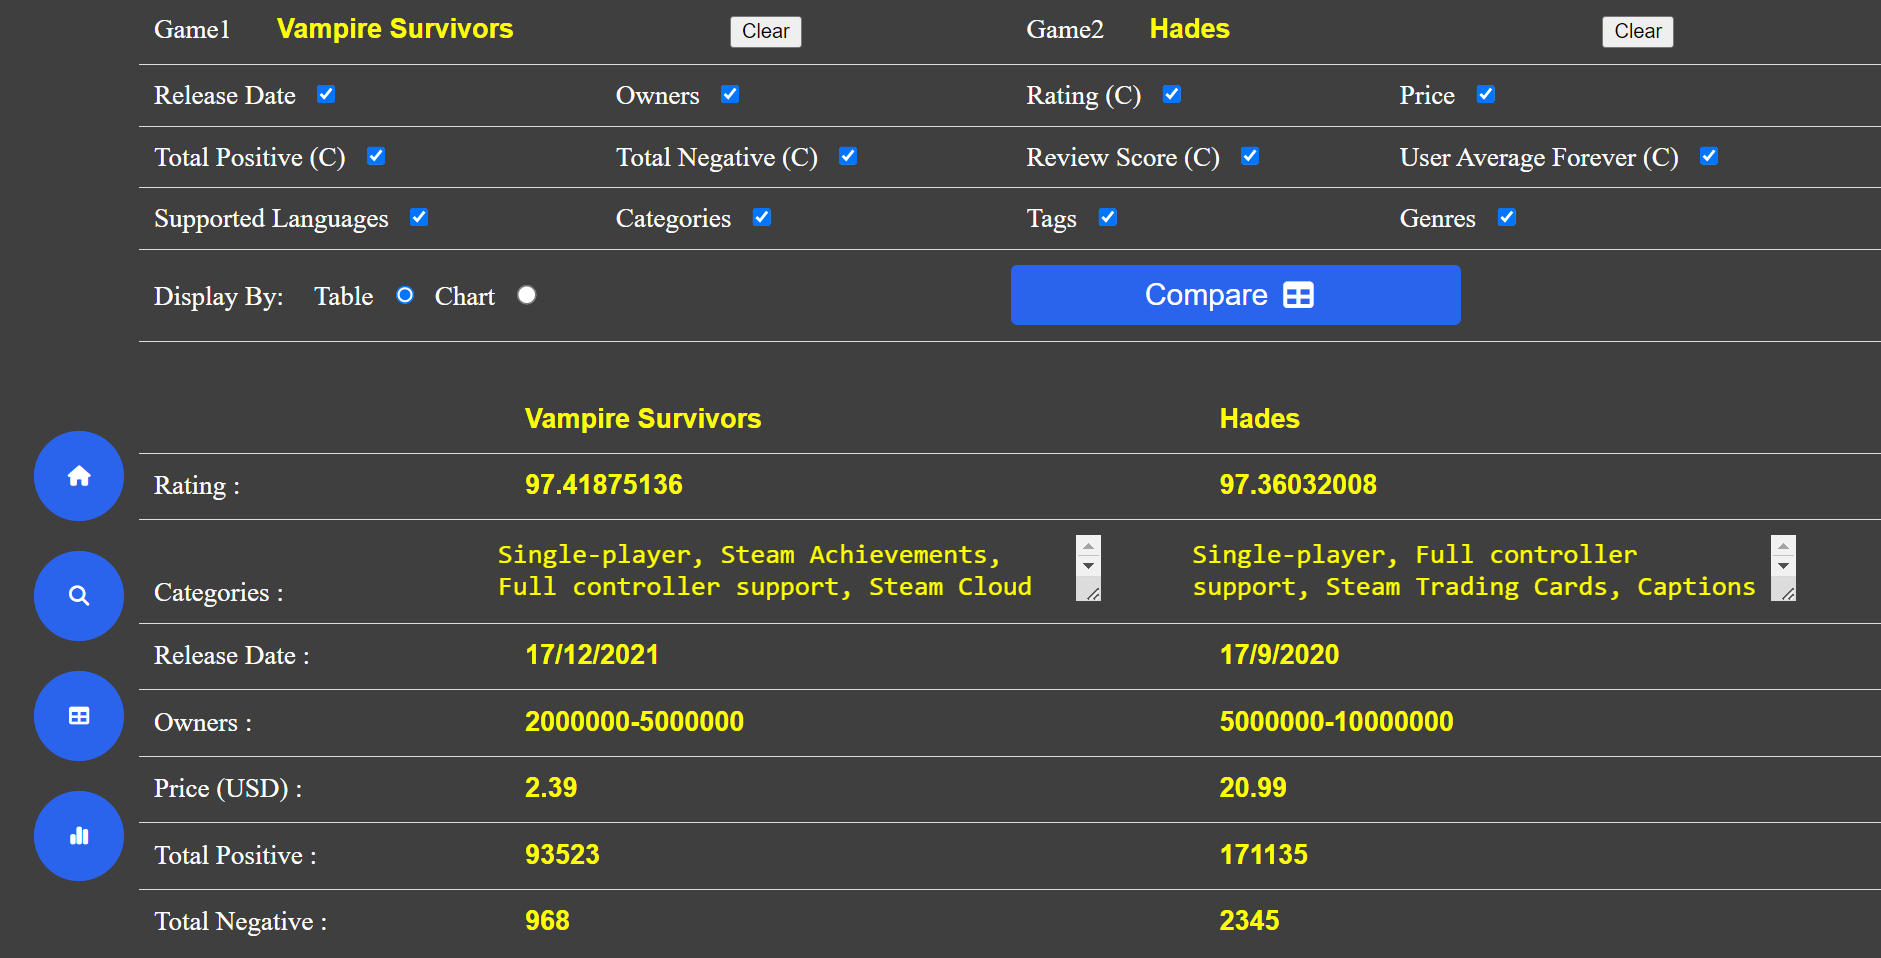
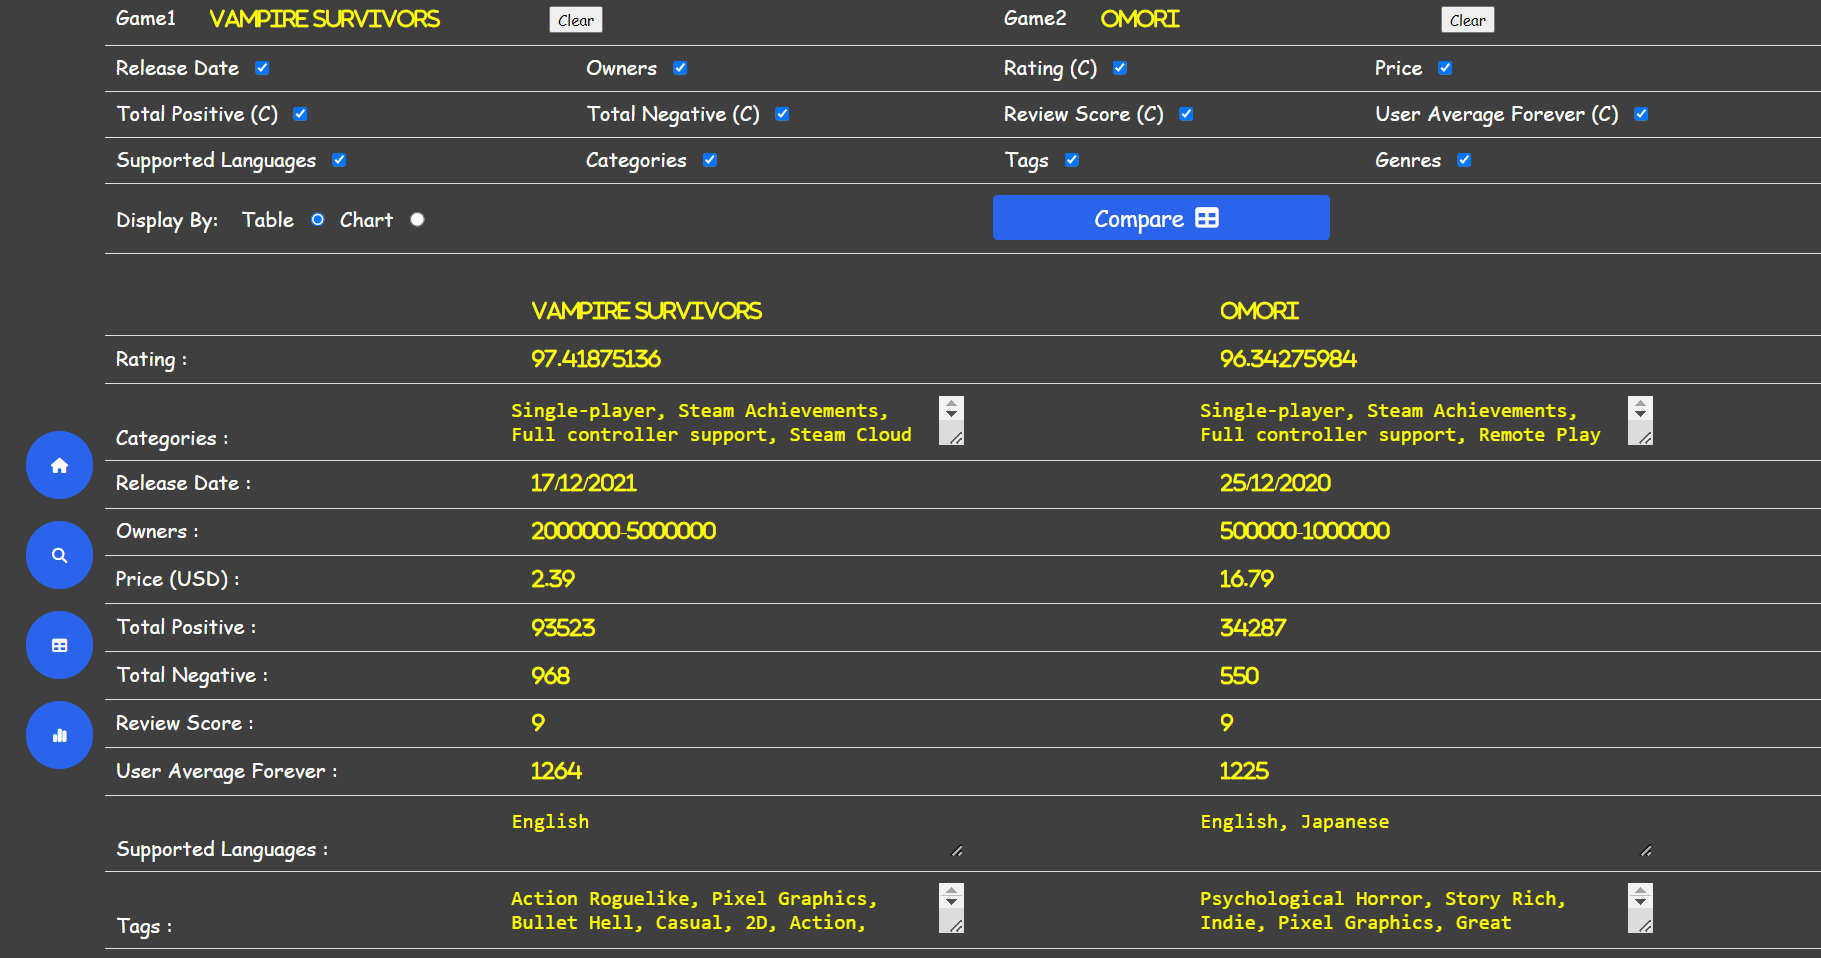
change font family

diff --git a/dist/main.css b/dist/main.css
@@ -346,6 +346,7 @@ body .detialPage input {
   font-size: 18px;
   font-weight: bold;
   padding-left: 20px;
+  font-family: "Font Awesome 6 Free";
 }
 body .detialPage .detialCol-1000 {
   width: 1000px;
@@ -418,6 +419,7 @@ body .comparePage input {
   font-size: 18px;
   font-weight: bold;
   padding-left: 20px;
+  font-family: "Font Awesome 6 Free";
 }
 body .comparePage .CompareCol-300 {
   width: 300px;

diff --git a/src/styles/style.scss b/src/styles/style.scss
@@ -307,6 +307,7 @@ body {
           font-size: 18px; 
           font-weight: bold;
           padding-left: 20px;
+          font-family: 'Font Awesome 6 Free';
       }
 
       .detialCol-1000{
@@ -387,6 +388,7 @@ body {
         font-size: 18px;
         font-weight: bold;
         padding-left: 20px;
+        font-family: 'Font Awesome 6 Free';
       }
       .CompareCol-300{
         width: 300px;
